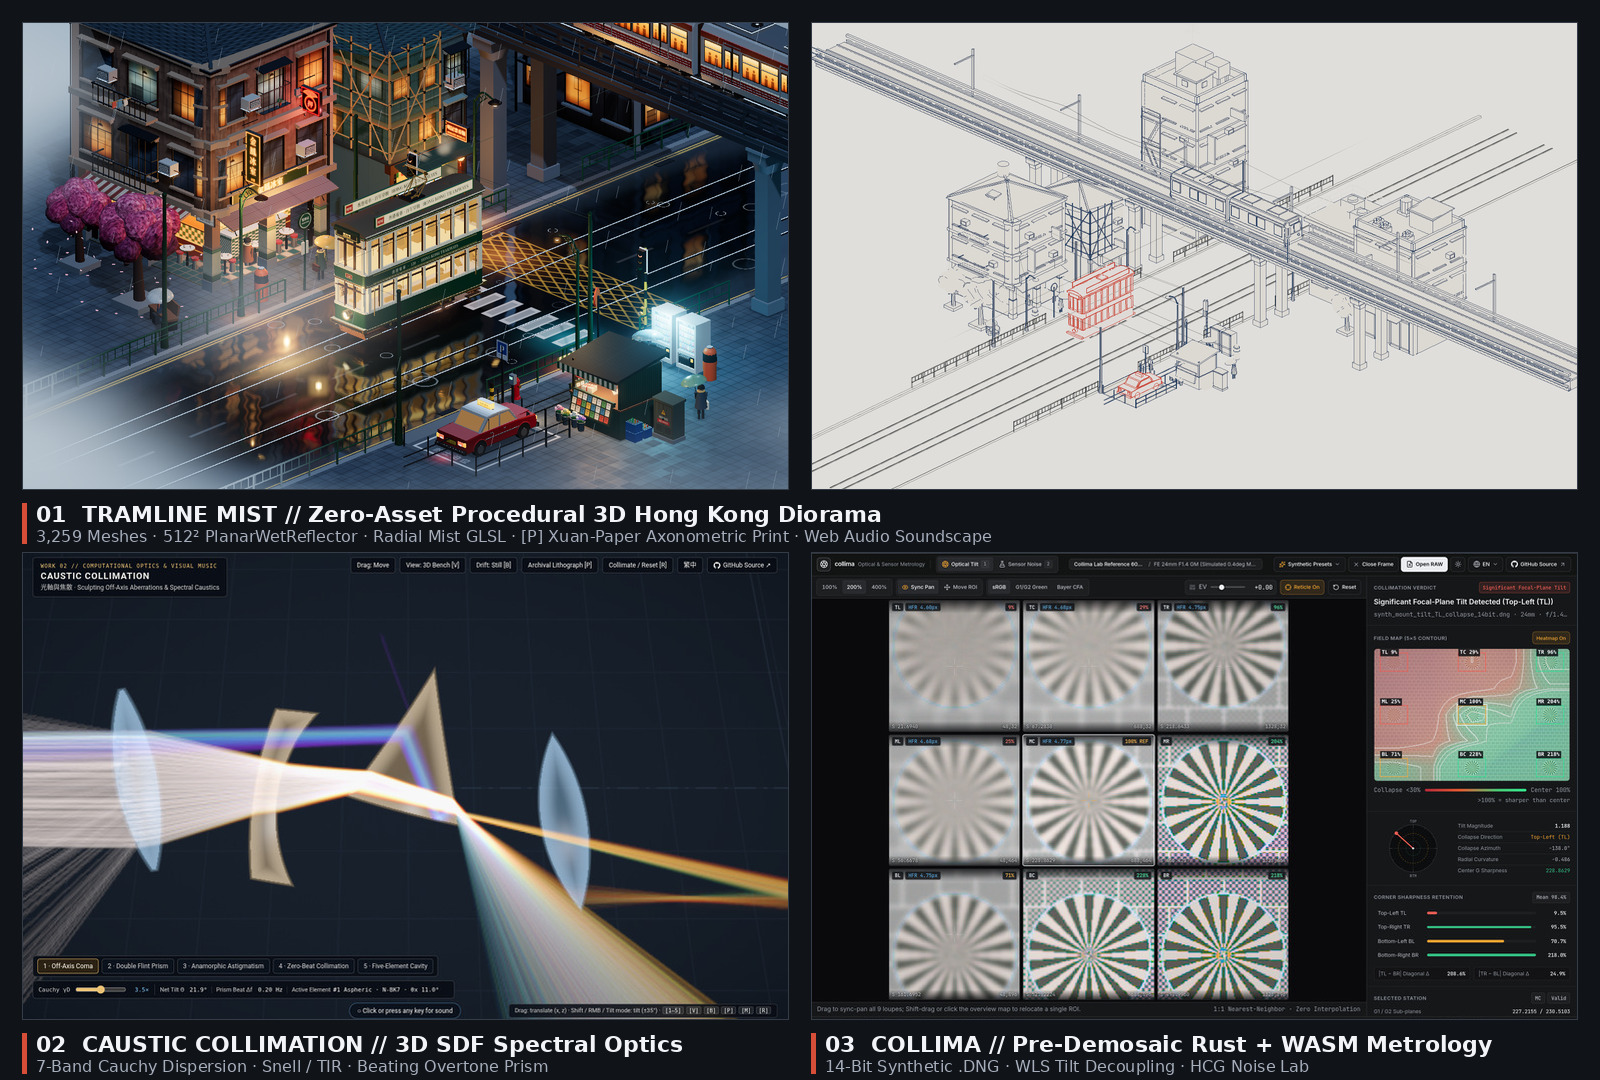
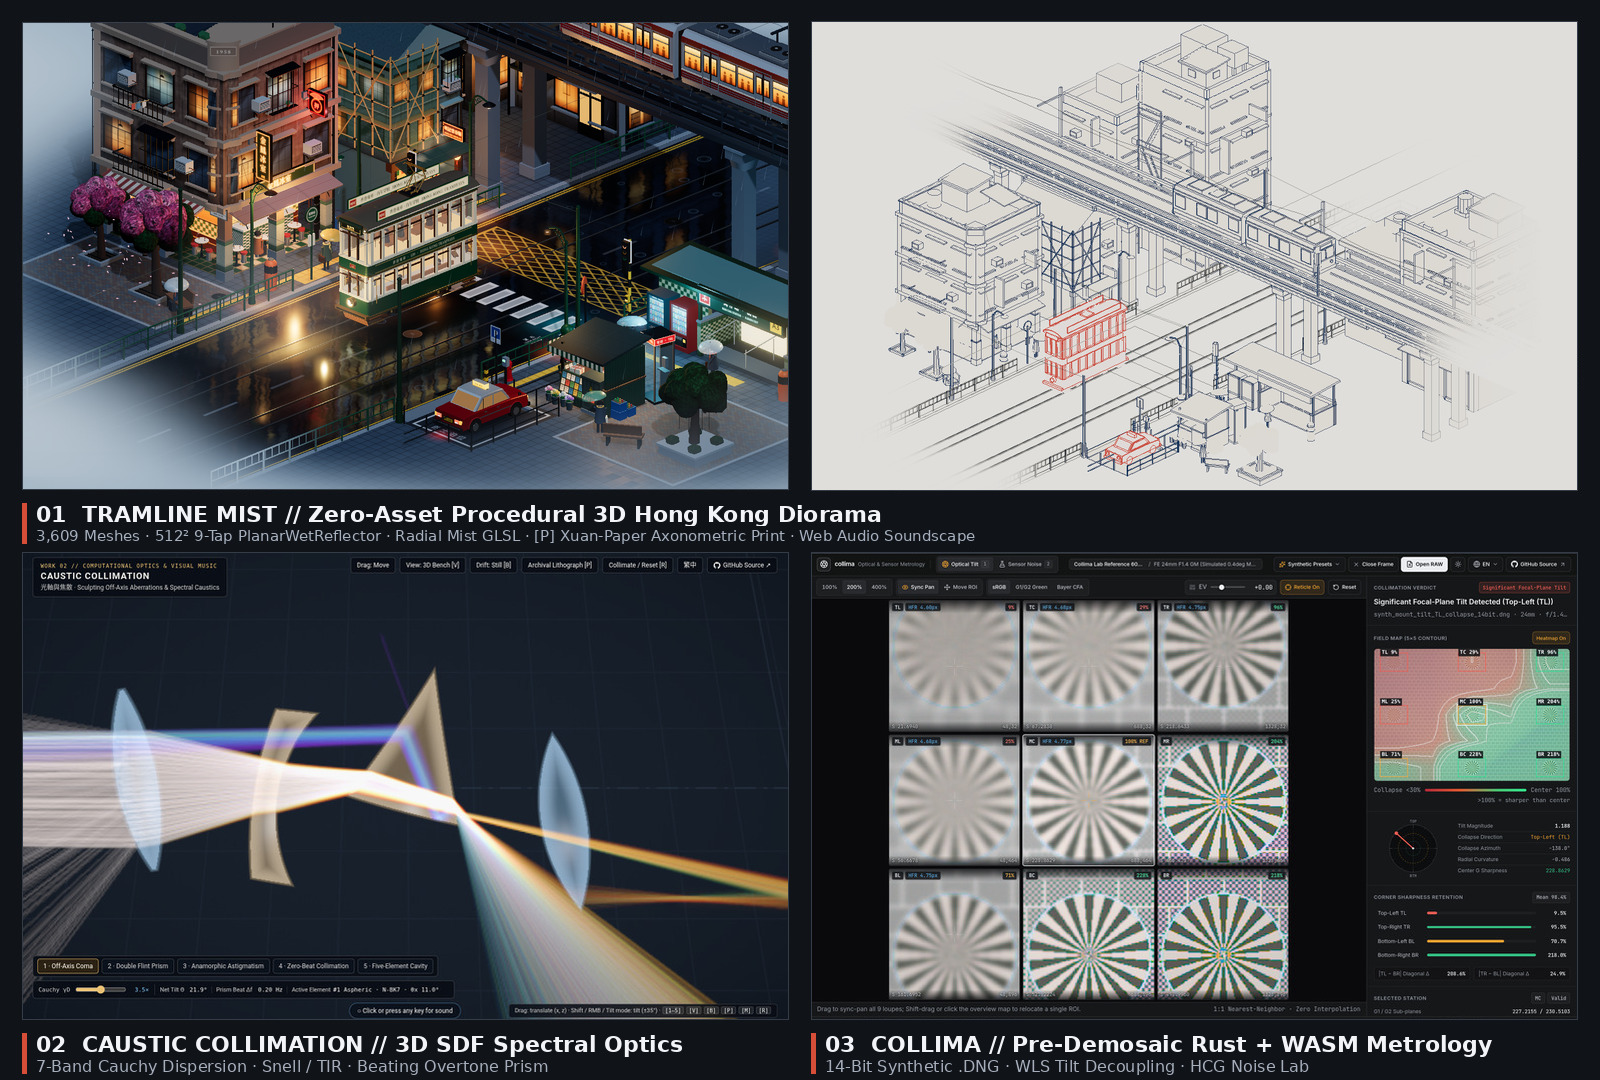
docs: sync TRAMLINE MIST polished metrics (3,609 meshes) and refreshed profile-trio preview

Changed region(s): [[0.0, 0.0, 1.0, 0.4583], [0.0312, 0.4889, 0.625, 0.5194]]

diff --git a/README.md b/README.md
@@ -16,7 +16,7 @@
 
 | Work | Interactive System | Core Computation & Media Architecture | Live Experience | Source |
 | :---: | :--- | :--- | :---: | :---: |
-| **01** | **TRAMLINE MIST // 香江雨霧・叮叮** | Zero-Asset Procedural 3D Hong Kong Diorama (`3,259` Meshes, `101k` Tris, `~209 KB` gz) · Orthographic `512² HalfFloat` `PlanarWetReflector` · `onBeforeCompile` Radial Mist GLSL · `[P]` Xuan-Paper `EdgesGeometry` Print · `[A]` Acoustic Field & Web Audio Soundscape | [![Live](https://img.shields.io/badge/▶_Launch-141619?style=flat-square)](https://h-void.github.io/hk-tram-mist/?lang=en) | [Repo ↗](https://github.com/h-void/hk-tram-mist) |
+| **01** | **TRAMLINE MIST // 香江雨霧・叮叮** | Zero-Asset Procedural 3D Hong Kong Diorama (`3,609` Meshes, `107k` Tris, `~216 KB` gz) · Orthographic `512² HalfFloat` 9-Tap `PlanarWetReflector` · `onBeforeCompile` Radial Mist GLSL · `[P]` Xuan-Paper `EdgesGeometry` Print · `[A]` Acoustic Field & Web Audio Soundscape | [![Live](https://img.shields.io/badge/▶_Launch-141619?style=flat-square)](https://h-void.github.io/hk-tram-mist/?lang=en) | [Repo ↗](https://github.com/h-void/hk-tram-mist) |
 | **02** | **CAUSTIC COLLIMATION // 光軸與焦散** | WebGL2 3D Implicit SDF Optical Bench (`N-BK7` & `SF11`) · 3D Vector Snell Refraction, Fresnel & TIR · 7-Band Cauchy Dispersion (`420–680 nm`, `γ_D = 3.5×`) · Stereo Beating Overtone Prism | [![Live](https://img.shields.io/badge/▶_Launch-B83A2A?style=flat-square)](https://h-void.github.io/caustic-collimation/?lang=en) | [Repo ↗](https://github.com/h-void/caustic-collimation) |
 | **03** | **COLLIMA // Seeing Before the ISP** | Rust 2024 Core (`205 KB` src) → Client WebAssembly (`~1.7 MB` gz) · In-Memory 14-Bit Synthetic `.DNG` Engine · Pre-Demosaic `G₁/G₂` WLS Optical Tilt / Field Curvature Separation · Dual-Native ISO (`HCG`) Noise Lab | [![Live](https://img.shields.io/badge/▶_Launch-4B525C?style=flat-square)](https://h-void.github.io/collima/?lang=en) | [Repo ↗](https://github.com/h-void/collima) |
 
